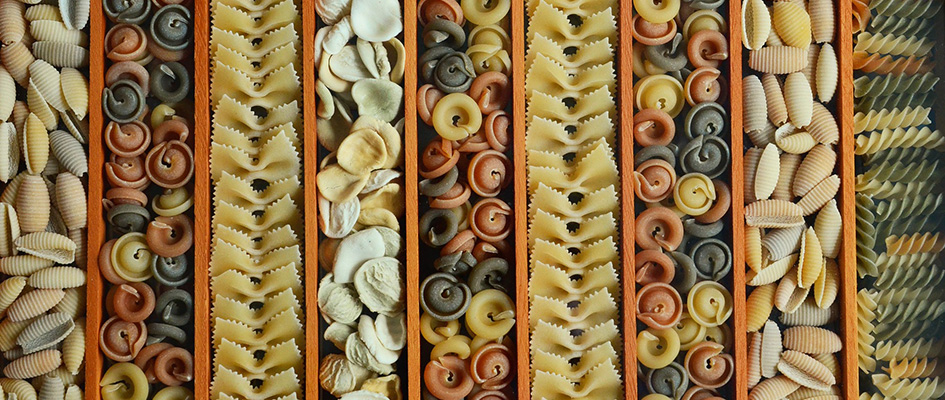
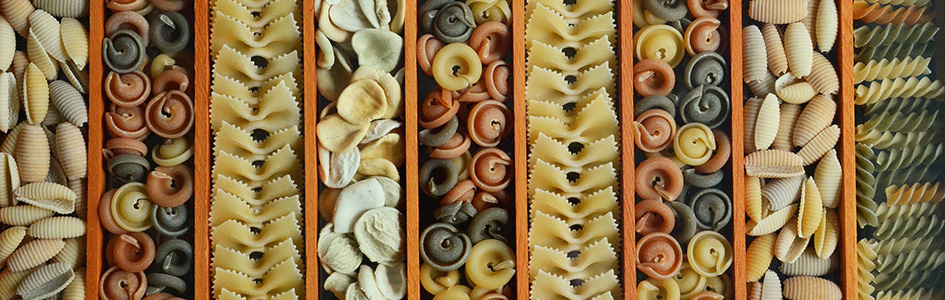
move to responsive layout. fix noodle image height.

diff --git a/css/styles.css b/css/styles.css
@@ -108,7 +108,7 @@ li {
   margin: 0 auto;
   padding: 0 1em;
   width: 100%;
-  max-width: 1000px;
+  max-width: 900px;
   position: relative;
   zoom: 1; }
   .container:before, .container:after {
@@ -179,13 +179,7 @@ li {
    cursor: pointer;
 }
 
-.blog-item {
-    position: relative;
-    display:inline-block;
-    height: 300px;
-    width: 945px;
-    padding:5%;
-}
+
 
 .intro-text{
   font-family: Cantarell,sans-serif;
@@ -223,6 +217,8 @@ ul.social li a i{
 }
   
 
+
+
 .unselectable{
     -webkit-user-select: none; /* Safari */        
     -moz-user-select: none; /* Firefox */
@@ -232,21 +228,31 @@ ul.social li a i{
 .blog-item-text{
     position: absolute;
     width:90%;
-    bottom: 20px;
+    bottom: 0px;
     display:inline-block;
     text-align: left;
     font-weight:700;
     vertical-align: bottom;
     color:white;
     font-family: Cantarell,sans-serif;
+    margin:3%
 }
+.blog-item {
+    position:relative;
+    display:inline-block;
+    width:100%;
+}
+.blog-item-img{
+  width:100%;
+}
+/* vw values calculated from vw of 920 in pxtovw.dev-calc.space */
 .blog-item-title{
-    #font-stretch:expanded;
-    font-size: 50px;
+    font-size: min(max(25px, 5.435vw), 50px);
 }
 .blog-item-blurb{
-    font-size: 30px;
+    font-size: min(max(15px, 3.261vw), 30px);
 }
+
 
 [role="contentinfo"] {
   border-top: 1px solid #cccccc; }

diff --git a/cs.html b/cs.html
@@ -1,27 +1,5 @@
 ---
-layout: default
+layout: project-list
 title: CS Articles
+project_list: cs
 ---
-
-<header class="intro">
-    <h1>{{ page.title }}</h1>
-</header>
-
-<div class="case-studies-body">
-    <ul class="listing">
-    {% assign cs = site.cs | sort: 'listing-priority' %}
-    {% for project in cs %}
-        <li >
-        <div class="div-pointer blog-item" style="background-image:url({{ project.img }});" 
-        onclick="location.href='{{ project.url }}'" >
-
-                <div class='blog-item-text'>
-                    <span class='blog-item-title unselectable'>{{ project.title }}</span>
-                    <hr style="width:100%;margin:0">
-                    <span class='blog-item-blurb unselectable'>{{ project.blurb }}</span>
-                </div>
-            </div>
-        </li>
-    {% endfor %}
-    </ul>
-</div>

diff --git a/ml.html b/ml.html
@@ -1,27 +1,5 @@
 ---
-layout: default
+layout: project-list
 title: ML Articles
+project_list: ml
 ---
-
-<header class="intro">
-    <h1>{{ page.title }}</h1>
-</header>
-
-<div class="case-studies-body">
-    <ul class="listing">
-    {% assign ml = site.ml | sort: 'listing-priority' %}
-    {% for project in ml %}
-        <li >
-        <div class="div-pointer blog-item" style="background-image:url({{ project.img }});" 
-        onclick="location.href='{{ project.url }}'" >
-
-                <div class='blog-item-text'>
-                    <span class='blog-item-title unselectable'>{{ project.title }}</span>
-                    <hr style="width:100%;margin:0">
-                    <span class='blog-item-blurb unselectable'>{{ project.blurb }}</span>
-                </div>
-            </div>
-        </li>
-    {% endfor %}
-    </ul>
-</div>

diff --git a/_layouts/project-list.html b/_layouts/project-list.html
@@ -1,0 +1,24 @@
+---
+layout: default
+---
+{% assign architect = site.people | where: "object-id", page.architect-id  | first %}
+
+<header class="intro">
+    <h1>{{ page.title }}</h1>
+</header>
+
+<div class="case-studies-body">
+    <ul class="listing">
+    {% assign pl = site[page.project_list] | sort: 'listing-priority' %}
+    {% for project in pl %}
+        <li class="div-pointer blog-item" onclick="location.href='{{ project.url }}'" >
+            <div class="blog-item-text">
+                <span class="blog-item-title unselectable">{{ project.title }}</span>
+                <hr style="width:100%;margin:0">
+                <span class="blog-item-blurb unselectable">{{ project.blurb }}</span>
+            </div>
+            <img src="{{ project.img }}" class="blog-item-img"/>
+        </li>
+    {% endfor %}
+    </ul>
+</div>
